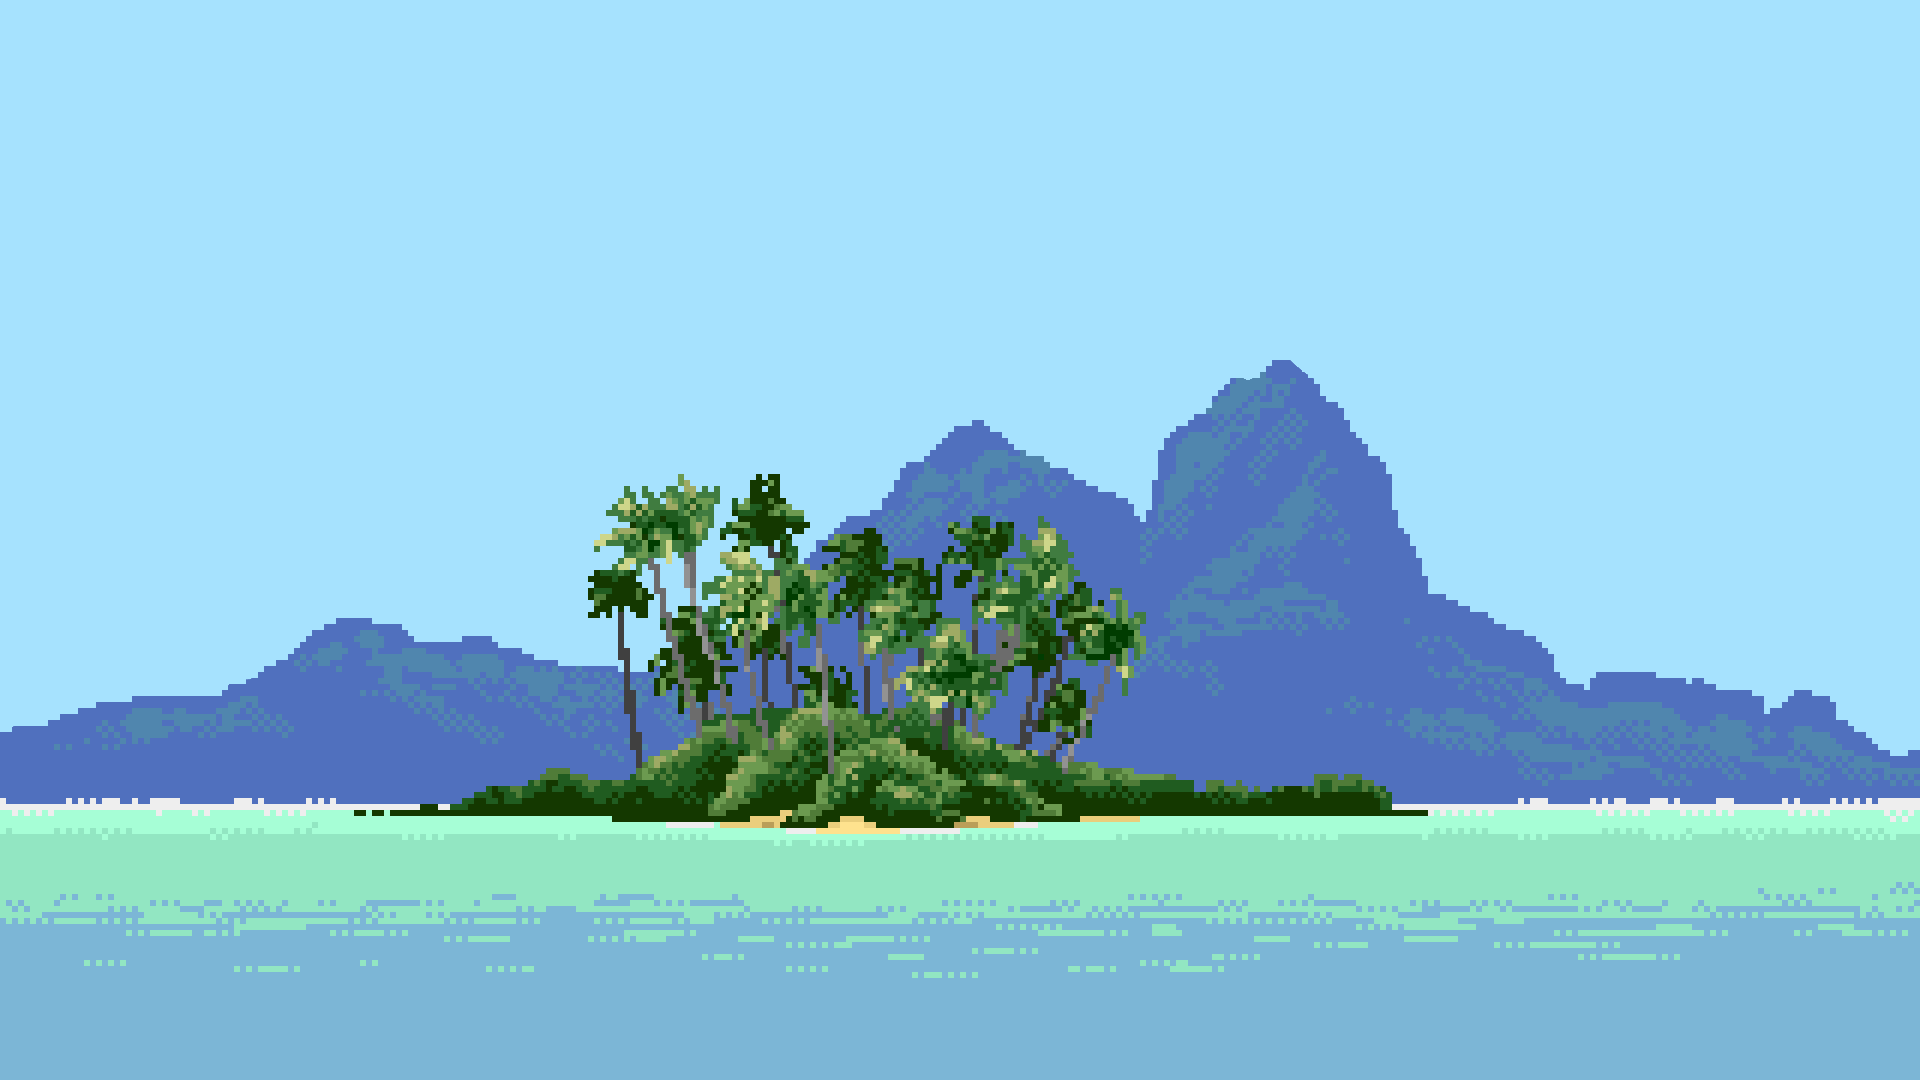
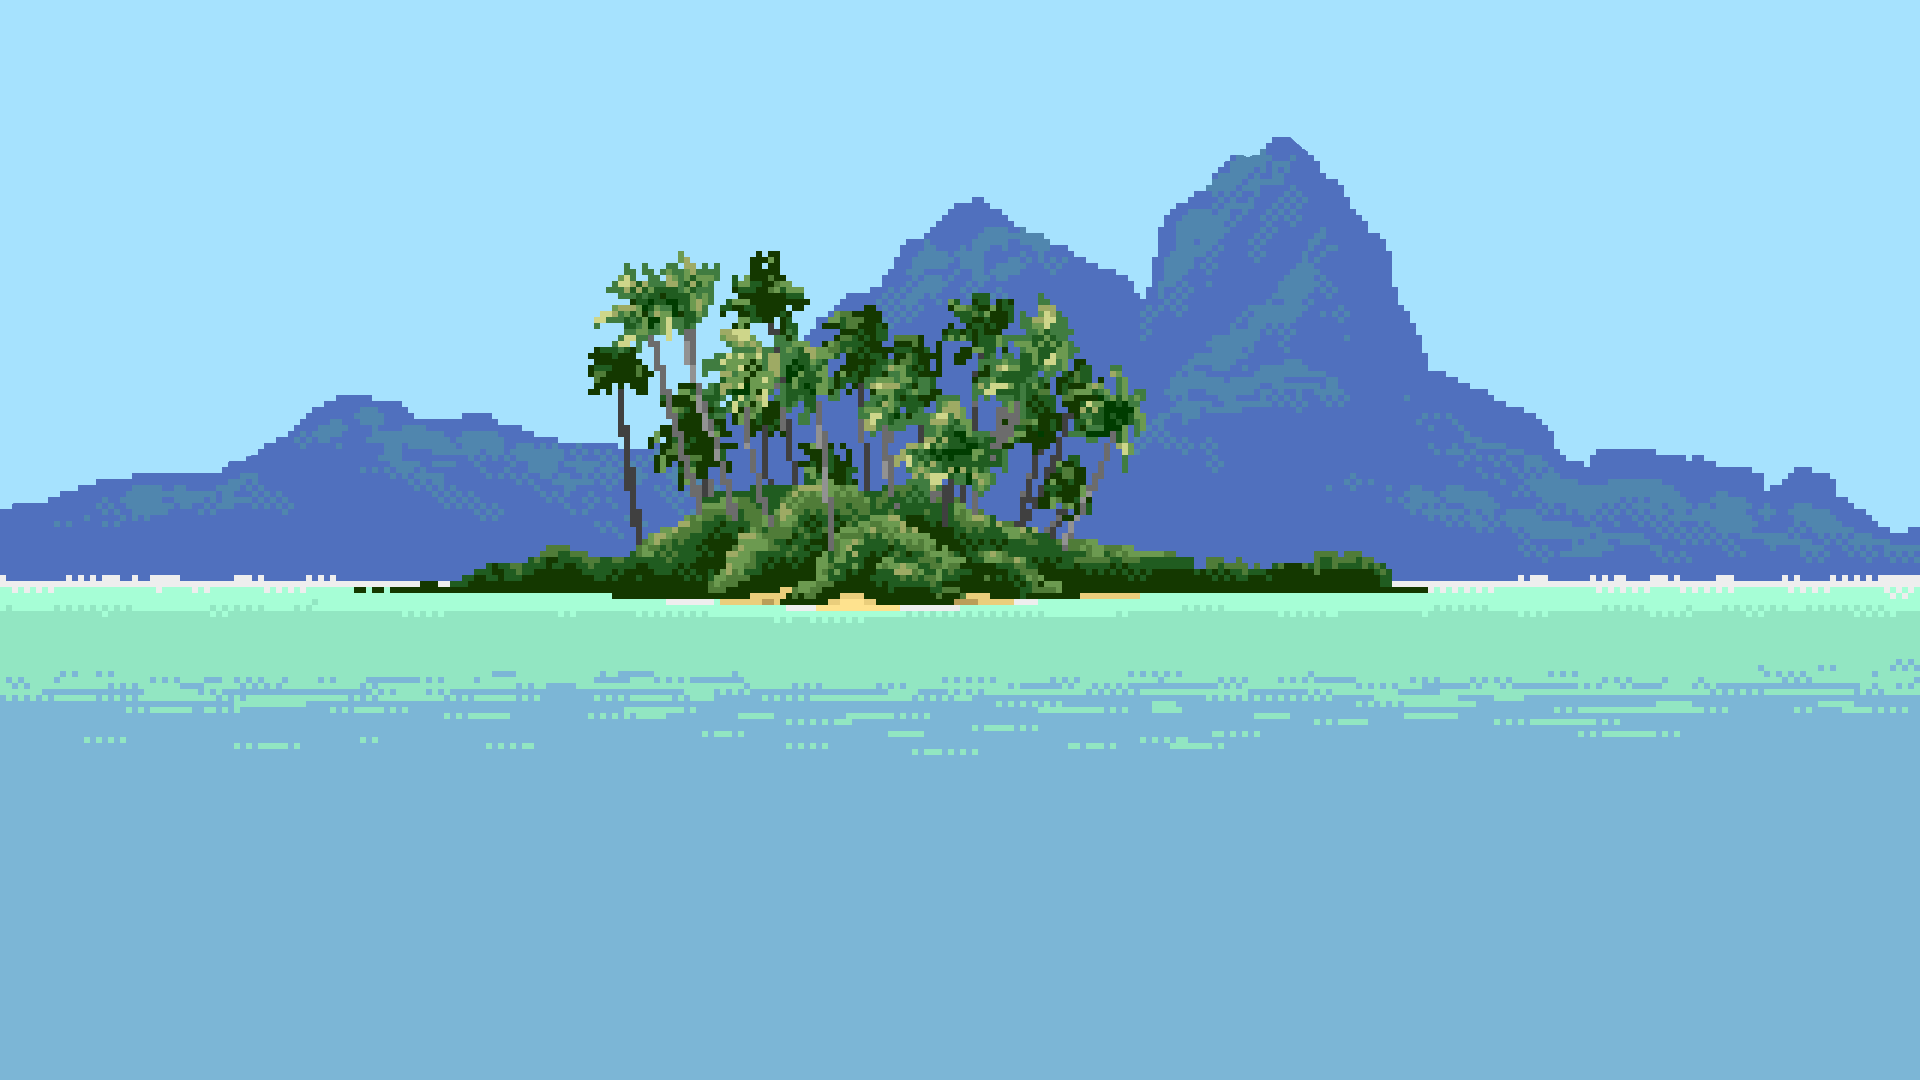
positioned each parallax picture

diff --git a/portfolio/components/Parallax.tsx b/portfolio/components/Parallax.tsx
@@ -1,0 +1,79 @@
+import Image from "next/image";
+import Intro from "./Intro";
+
+const Parallax = () => {
+  return (
+    <section
+      className="relative h-screen w-screen overflow-hidden"
+      id="parallax-container"
+    >
+      <Intro />
+
+      <Image
+        src="/boat.webp"
+        alt="boat"
+        width={120}
+        height={120}
+        className="absolute top-[58%] left-[90%]"
+      />
+      <Image
+        src="/cloud.webp"
+        alt="cloud"
+        layout="fill"
+        objectFit="cover"
+        className="absolute"
+      />
+      <Image
+        src="/cloud2.webp"
+        alt="cloud"
+        layout="fill"
+        objectFit="cover"
+        className="absolute"
+      />
+      <Image
+        src="/cloud3.webp"
+        alt="cloud"
+        layout="fill"
+        objectFit="cover"
+        className="absolute"
+      />
+      <Image
+        src="/cloud4.webp"
+        alt="cloud"
+        layout="fill"
+        objectFit="cover"
+        className="absolute"
+      />
+      <Image
+        src="/cloud5.webp"
+        alt="cloud"
+        layout="fill"
+        objectFit="cover"
+        className="absolute z-10"
+      />
+      <Image
+        src="/sun.webp"
+        alt="sun"
+        layout="fill"
+        objectFit="cover"
+        className="absolute"
+      />
+      <Image
+        src="/deer.svg"
+        alt="deer"
+        layout="fill"
+        objectFit="cover"
+        className="z-10 absolute"
+      />
+      <Image
+        src="/background.webp"
+        alt="background"
+        layout="fill"
+        objectFit="cover"
+        className="absolute"
+      />
+    </section>
+  );
+};
+
+export default Parallax;

diff --git a/portfolio/app/page.tsx b/portfolio/app/page.tsx
@@ -1,37 +1,11 @@
 "use client";
 
-import { VT323 } from "next/font/google";
-import { motion, easeInOut } from "framer-motion";
-
-const vt323 = VT323({ weight: "400", subsets: ["latin"] });
+import Parallax from "@/components/Parallax";
 
 export default function Home() {
-  const variant = {
-    hidden: { y: 50, opacity: 0 },
-    show: {
-      y: 0,
-      opacity: 1,
-      transition: {
-        duration: 0.8,
-        easeInOut,
-      },
-    },
-    exit: { opacity: 0 },
-  };
-
   return (
-    <section className="h-screen flex flex-col justify-center items-center">
-      <motion.h1
-        className={`${vt323.className} text-center text-7xl md:text-9xl text-shadow text-[var(--gold)] dark-shadow cursor-default`}
-        variants={variant}
-        initial="hidden"
-        animate="show"
-      >
-        Hi, I'm Aaron
-        <span className="text-2xl md:text-4xl block mt-3">
-          Interactive Front-End Developer
-        </span>
-      </motion.h1>
+    <section className="flex flex-col justify-center items-center">
+      <Parallax />
     </section>
   );
 }

diff --git a/portfolio/components/Intro.tsx b/portfolio/components/Intro.tsx
@@ -1,0 +1,38 @@
+import { motion, easeInOut } from "framer-motion";
+import { VT323 } from "next/font/google";
+const vt323 = VT323({ weight: "400", subsets: ["latin"] });
+
+import React from "react";
+
+const Intro = () => {
+  const variant = {
+    hidden: { y: 50, opacity: 0 },
+    show: {
+      y: 0,
+      opacity: 1,
+      transition: {
+        duration: 0.8,
+        easeInOut,
+      },
+    },
+    exit: { opacity: 0 },
+  };
+
+  return (
+    <div className="absolute top-1/2 left-1/2 transform -translate-x-1/2 -translate-y-1/2">
+      <motion.h1
+        className={`${vt323.className} text-center text-7xl md:text-9xl text-shadow text-[var(--gold)] dark-shadow cursor-default`}
+        variants={variant}
+        initial="hidden"
+        animate="show"
+      >
+        Hi, I'm Aaron
+        <span className="text-2xl md:text-4xl block mt-3">
+          Interactive Front-End Developer
+        </span>
+      </motion.h1>
+    </div>
+  );
+};
+
+export default Intro;

diff --git a/portfolio/app/layout.tsx b/portfolio/app/layout.tsx
@@ -1,7 +1,6 @@
 import "./globals.css";
 import type { Metadata } from "next";
 import Navbar from "@/components/Navbar";
-import Head from "next/head";
 
 export const metadata: Metadata = {
   title: "Portfolio",
@@ -15,7 +14,7 @@ export default function RootLayout({
 }) {
   return (
     <html lang="en">
-      <body>
+      <body className="h-[200vh] overflow-x-hidden">
         <main>
           <Navbar />
           {children}

diff --git a/portfolio/app/globals.css b/portfolio/app/globals.css
@@ -21,11 +21,10 @@ html {
   scroll-behavior: smooth;
 }
 
-main {
+#parallax-container {
   background-image: url("../public/island.webp");
   background-size: cover;
   background-repeat: no-repeat;
-  background-position: center;
 }
 
 .text-shadow {
